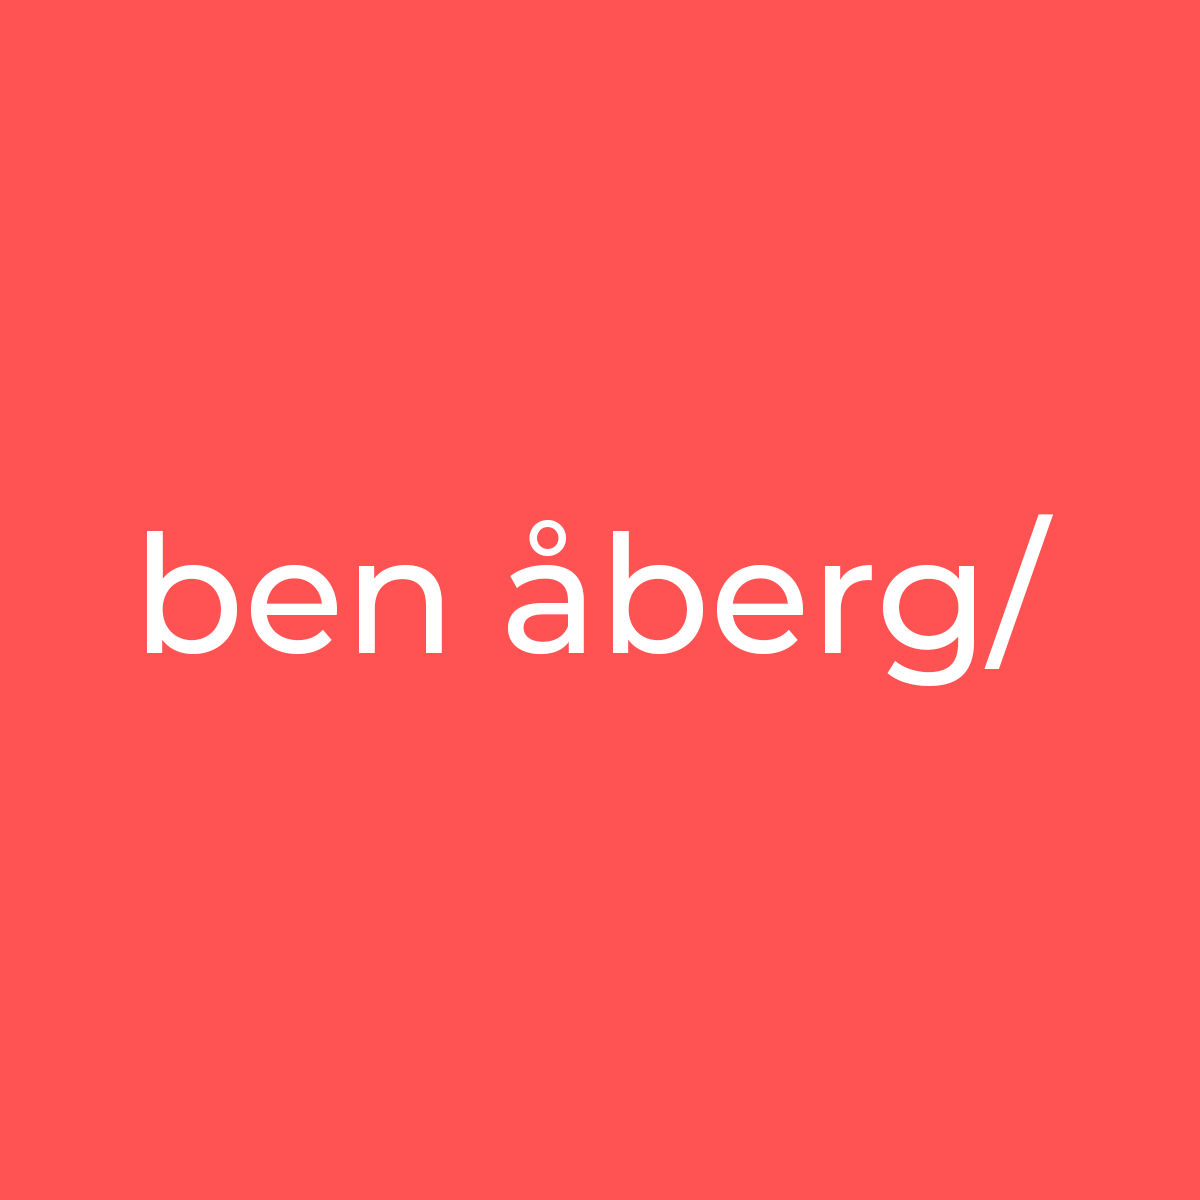
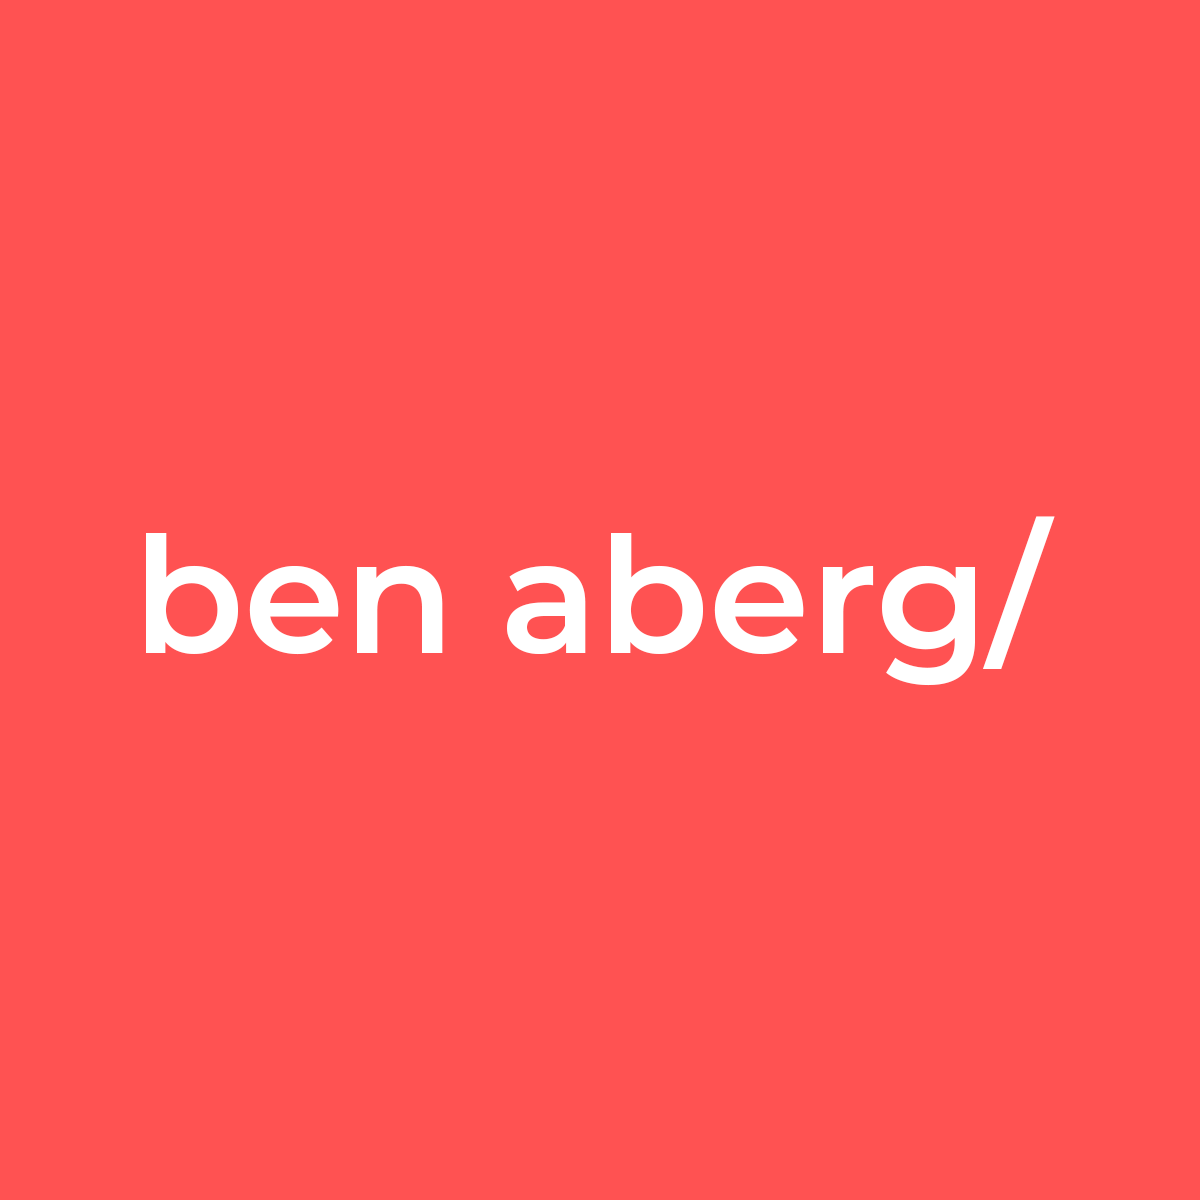
navigation & update opengraph image

diff --git a/src/app/app.component.scss b/src/app/app.component.scss
@@ -1,7 +1,7 @@
 @import url(https://fonts.googleapis.com/css?family=Montserrat);
 
 $desktop-min-width: 600px;
-$desktop-max-size: 900px;
+$desktop-max-size: 800px;
 
 $standard-curve: cubic-bezier(0.4, 0.0, 0.2, 1);
 
@@ -16,6 +16,68 @@ $standard-curve: cubic-bezier(0.4, 0.0, 0.2, 1);
     @media (min-width: $desktop-min-width) {
         padding-right: 60px;
         padding-left: 60px;
+    }
+}
+
+header {
+    font-size: 36px;
+    margin-top: 2em;
+    margin-bottom: 1em;
+
+    @media (min-width: $desktop-min-width) {
+        font-size: 42px;
+    }
+}
+
+.header__title {
+    font-weight: 600;
+    margin-left: -0.075em;
+    line-height: 1;
+}
+
+.header__divider {
+    color: #ff5252;
+}
+
+nav {
+    font-size: 18px;
+    margin-top: -0.5em + 1em;
+    margin-left: -1em;
+
+    @media (min-width: $desktop-min-width) {
+        font-size: 20px;
+    }
+}
+
+.nav__link {
+    line-height: 1.3;
+    margin-top: 0.5em;
+    margin-left: 1em;
+    color: #ffffff;
+    text-decoration: none;
+    position: relative;
+    margin-bottom: 0.25em;
+
+    &:after {
+        content: '';
+        transition: 200ms $standard-curve all;
+        background-color: #ffffff;
+        height: 2px;
+        position: absolute;
+        left: 0.15rem;
+        right: 100%;
+        top: 110%;
+        will-change: background-color, right;
+    }
+    &:hover:after {
+        right: 0;
+    }
+
+    &--active {
+        &:after {
+            right: 0;
+            background-color: #ff5252;
+        }
     }
 }
 

diff --git a/src/app/app-routing.module.ts b/src/app/app-routing.module.ts
@@ -3,14 +3,36 @@ import { RouterModule, Routes } from '@angular/router';
 
 import { NotFoundComponent } from './not-found/not-found.component';
 import { HomeComponent } from './home/home.component';
+import { ContactComponent } from './contact/contact.component';
+import { ProjectsComponent } from './projects/projects.component';
 
 const routes: Routes = [
-  { path: '',  component: HomeComponent },
-  { path: '**',  component: NotFoundComponent }
+  {
+    path: '',
+    component: HomeComponent,
+    data: {
+      meta: {
+        title: 'ben åberg',
+        description: 'web & ui design for the modern world'
+      }
+    }
+  },
+  {
+    path: 'contact',
+    component: ContactComponent
+  },
+  {
+    path: 'projects',
+    component: ProjectsComponent
+  },
+  {
+    path: '**',
+    component: NotFoundComponent
+  }
 ];
 
 @NgModule({
-  imports: [ RouterModule.forRoot(routes) ],
-  exports: [ RouterModule ]
+  imports: [RouterModule.forRoot(routes)],
+  exports: [RouterModule]
 })
 export class AppRoutingModule { }

diff --git a/src/app/projects/projects.component.spec.ts b/src/app/projects/projects.component.spec.ts
@@ -1,0 +1,25 @@
+import { async, ComponentFixture, TestBed } from '@angular/core/testing';
+
+import { ProjectsComponent } from './projects.component';
+
+describe('ProjectsComponent', () => {
+  let component: ProjectsComponent;
+  let fixture: ComponentFixture<ProjectsComponent>;
+
+  beforeEach(async(() => {
+    TestBed.configureTestingModule({
+      declarations: [ ProjectsComponent ]
+    })
+    .compileComponents();
+  }));
+
+  beforeEach(() => {
+    fixture = TestBed.createComponent(ProjectsComponent);
+    component = fixture.componentInstance;
+    fixture.detectChanges();
+  });
+
+  it('should create', () => {
+    expect(component).toBeTruthy();
+  });
+});

diff --git a/src/app/contact/contact.component.spec.ts b/src/app/contact/contact.component.spec.ts
@@ -1,0 +1,25 @@
+import { async, ComponentFixture, TestBed } from '@angular/core/testing';
+
+import { ContactComponent } from './contact.component';
+
+describe('ContactComponent', () => {
+  let component: ContactComponent;
+  let fixture: ComponentFixture<ContactComponent>;
+
+  beforeEach(async(() => {
+    TestBed.configureTestingModule({
+      declarations: [ ContactComponent ]
+    })
+    .compileComponents();
+  }));
+
+  beforeEach(() => {
+    fixture = TestBed.createComponent(ContactComponent);
+    component = fixture.componentInstance;
+    fixture.detectChanges();
+  });
+
+  it('should create', () => {
+    expect(component).toBeTruthy();
+  });
+});

diff --git a/src/index.html b/src/index.html
@@ -8,8 +8,6 @@
   <meta name="viewport" content="width=device-width, initial-scale=1">
 
   <!-- OPENGRAPH -->
-  <meta property="og:title" content="ben åberg" />
-  <meta property="og:description" content="web & ui design for the modern world" />
   <meta property="og:image" content="https://www.whimz.ee/assets/og.png" />
   <meta property="og:image:height" content="1200" />
   <meta property="og:image:width" content="1200" />
@@ -26,7 +24,6 @@
 
   <!-- PAGE META -->
   <meta name="theme-color" content="#ff5252">
-  <meta name="description" content="web & ui design for the modern world" />
 </head>
 
 <body>

diff --git a/src/app/app.component.html b/src/app/app.component.html
@@ -1,1 +1,18 @@
+<header>
+    <div class="header__title">
+        {{title}}
+        <span class="header__divider">/</span>
+    </div>
+    <nav>
+        <a routerLink="" class="nav__link" routerLinkActive="nav__link--active" [routerLinkActiveOptions]= "{exact: true}">
+            welcome
+        </a>
+        <a routerLink="projects" class="nav__link" routerLinkActive="nav__link--active">
+            projects
+        </a>
+        <a routerLink="contact" class="nav__link" routerLinkActive="nav__link--active">
+            contact
+        </a>
+    </nav>
+</header>
 <router-outlet></router-outlet>

diff --git a/src/app/app.module.ts b/src/app/app.module.ts
@@ -5,12 +5,16 @@ import { AppComponent } from './app.component';
 import { NotFoundComponent } from './not-found/not-found.component';
 import { AppRoutingModule } from './/app-routing.module';
 import { HomeComponent } from './home/home.component';
+import { ContactComponent } from './contact/contact.component';
+import { ProjectsComponent } from './projects/projects.component';
 
 @NgModule({
   declarations: [
     AppComponent,
     NotFoundComponent,
-    HomeComponent
+    HomeComponent,
+    ContactComponent,
+    ProjectsComponent
   ],
   imports: [
     BrowserModule,

diff --git a/src/app/home/home.component.html b/src/app/home/home.component.html
@@ -1,16 +1,3 @@
-<h1>
-  ben åberg
-  <span class="accent-color">/</span>
-</h1>
 <p>
-  web & ui design for the modern world
-</p>
-<p>
-  <a href="https://github.com/whimzee">
-    github
-  </a>
-  <i class="links-divider"></i>
-  <a href="mailto:hello@whimz.ee">
-    contact
-  </a>
+  web & ui design for the modern world.
 </p>

diff --git a/src/app/projects/projects.component.ts b/src/app/projects/projects.component.ts
@@ -1,0 +1,15 @@
+import { Component, OnInit } from '@angular/core';
+
+@Component({
+  selector: 'app-projects',
+  templateUrl: './projects.component.html',
+  styleUrls: ['./projects.component.scss']
+})
+export class ProjectsComponent implements OnInit {
+
+  constructor() { }
+
+  ngOnInit() {
+  }
+
+}

diff --git a/src/app/contact/contact.component.ts b/src/app/contact/contact.component.ts
@@ -1,0 +1,15 @@
+import { Component, OnInit } from '@angular/core';
+
+@Component({
+  selector: 'app-contact',
+  templateUrl: './contact.component.html',
+  styleUrls: ['./contact.component.scss']
+})
+export class ContactComponent implements OnInit {
+
+  constructor() { }
+
+  ngOnInit() {
+  }
+
+}

diff --git a/src/app/contact/contact.component.scss b/src/app/contact/contact.component.scss
@@ -1,0 +1,9 @@
+.links-divider {
+    background-color: white;
+    display: inline-block;
+    width: .25rem;
+    height: .25rem;
+    vertical-align: middle;
+    margin-left: .5em;
+    margin-right: .5em;
+}

diff --git a/src/app/projects/projects.component.html b/src/app/projects/projects.component.html
@@ -1,0 +1,3 @@
+<p>
+    code on <a href="https://github.com/whimzee">github</a>.
+</p>
